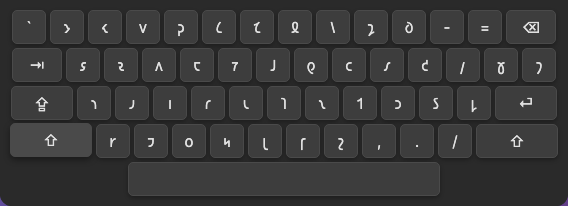
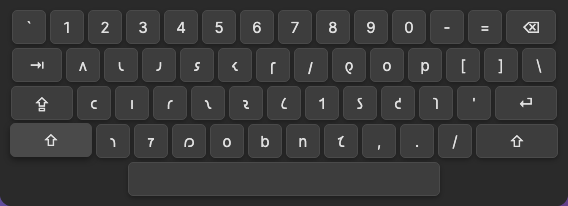
Fix keyboard screenshot generation to correctly render all layouts
- Fixed issue where all layouts were rendering as Imperial
- Now directly call updateKeyboardLabels with the correct keyboard map for each layout
- All 5 layouts now generate correctly: imperial, igc, qwerty, 2layer, jafl
- Each layout shows its unique character mappings

🤖 Generated with [Claude Code](https://claude.com/claude-code)

diff --git a/generate_keyboard_images.py b/generate_keyboard_images.py
@@ -77,12 +77,32 @@ async def generate_keyboard_screenshots():
         for layout in LAYOUTS:
             print(f"Generating screenshots for {layout}...")
 
-            # Change layout using JavaScript
-            await page.evaluate(f'''() => {{
+            # Change layout using JavaScript - directly call updateKeyboardLabels with the correct map
+            result = await page.evaluate(f'''() => {{
                 window.currentLayout = '{layout}';
                 localStorage.setItem('currentLayout', '{layout}');
-                updateVirtualKeyboardLabels();
+
+                const keyboardMap = KEYBOARD_MAPS['{layout}'];
+                const layoutNames = {{
+                    'imperial': 'Shaw Imperial',
+                    'igc': 'Imperial Good Companion',
+                    'qwerty': 'Shaw QWERTY',
+                    '2layer': 'Shaw 2-layer',
+                    'jafl': 'Shaw-JAFL'
+                }};
+                const layoutName = layoutNames['{layout}'] || 'Virtual Keyboard';
+
+                // Directly call the virtual keyboard functions with the correct map
+                if (typeof updateKeyboardLabels === 'function') {{
+                    updateKeyboardLabels(keyboardMap, layoutName);
+                }}
+                if (typeof makeKeysClickable === 'function') {{
+                    makeKeysClickable(keyboardMap);
+                }}
+
+                return '{layout}';
             }}''')
+            print(f"  Layout set to: {result}")
             await asyncio.sleep(0.3)
 
             # Ensure shift is not active
